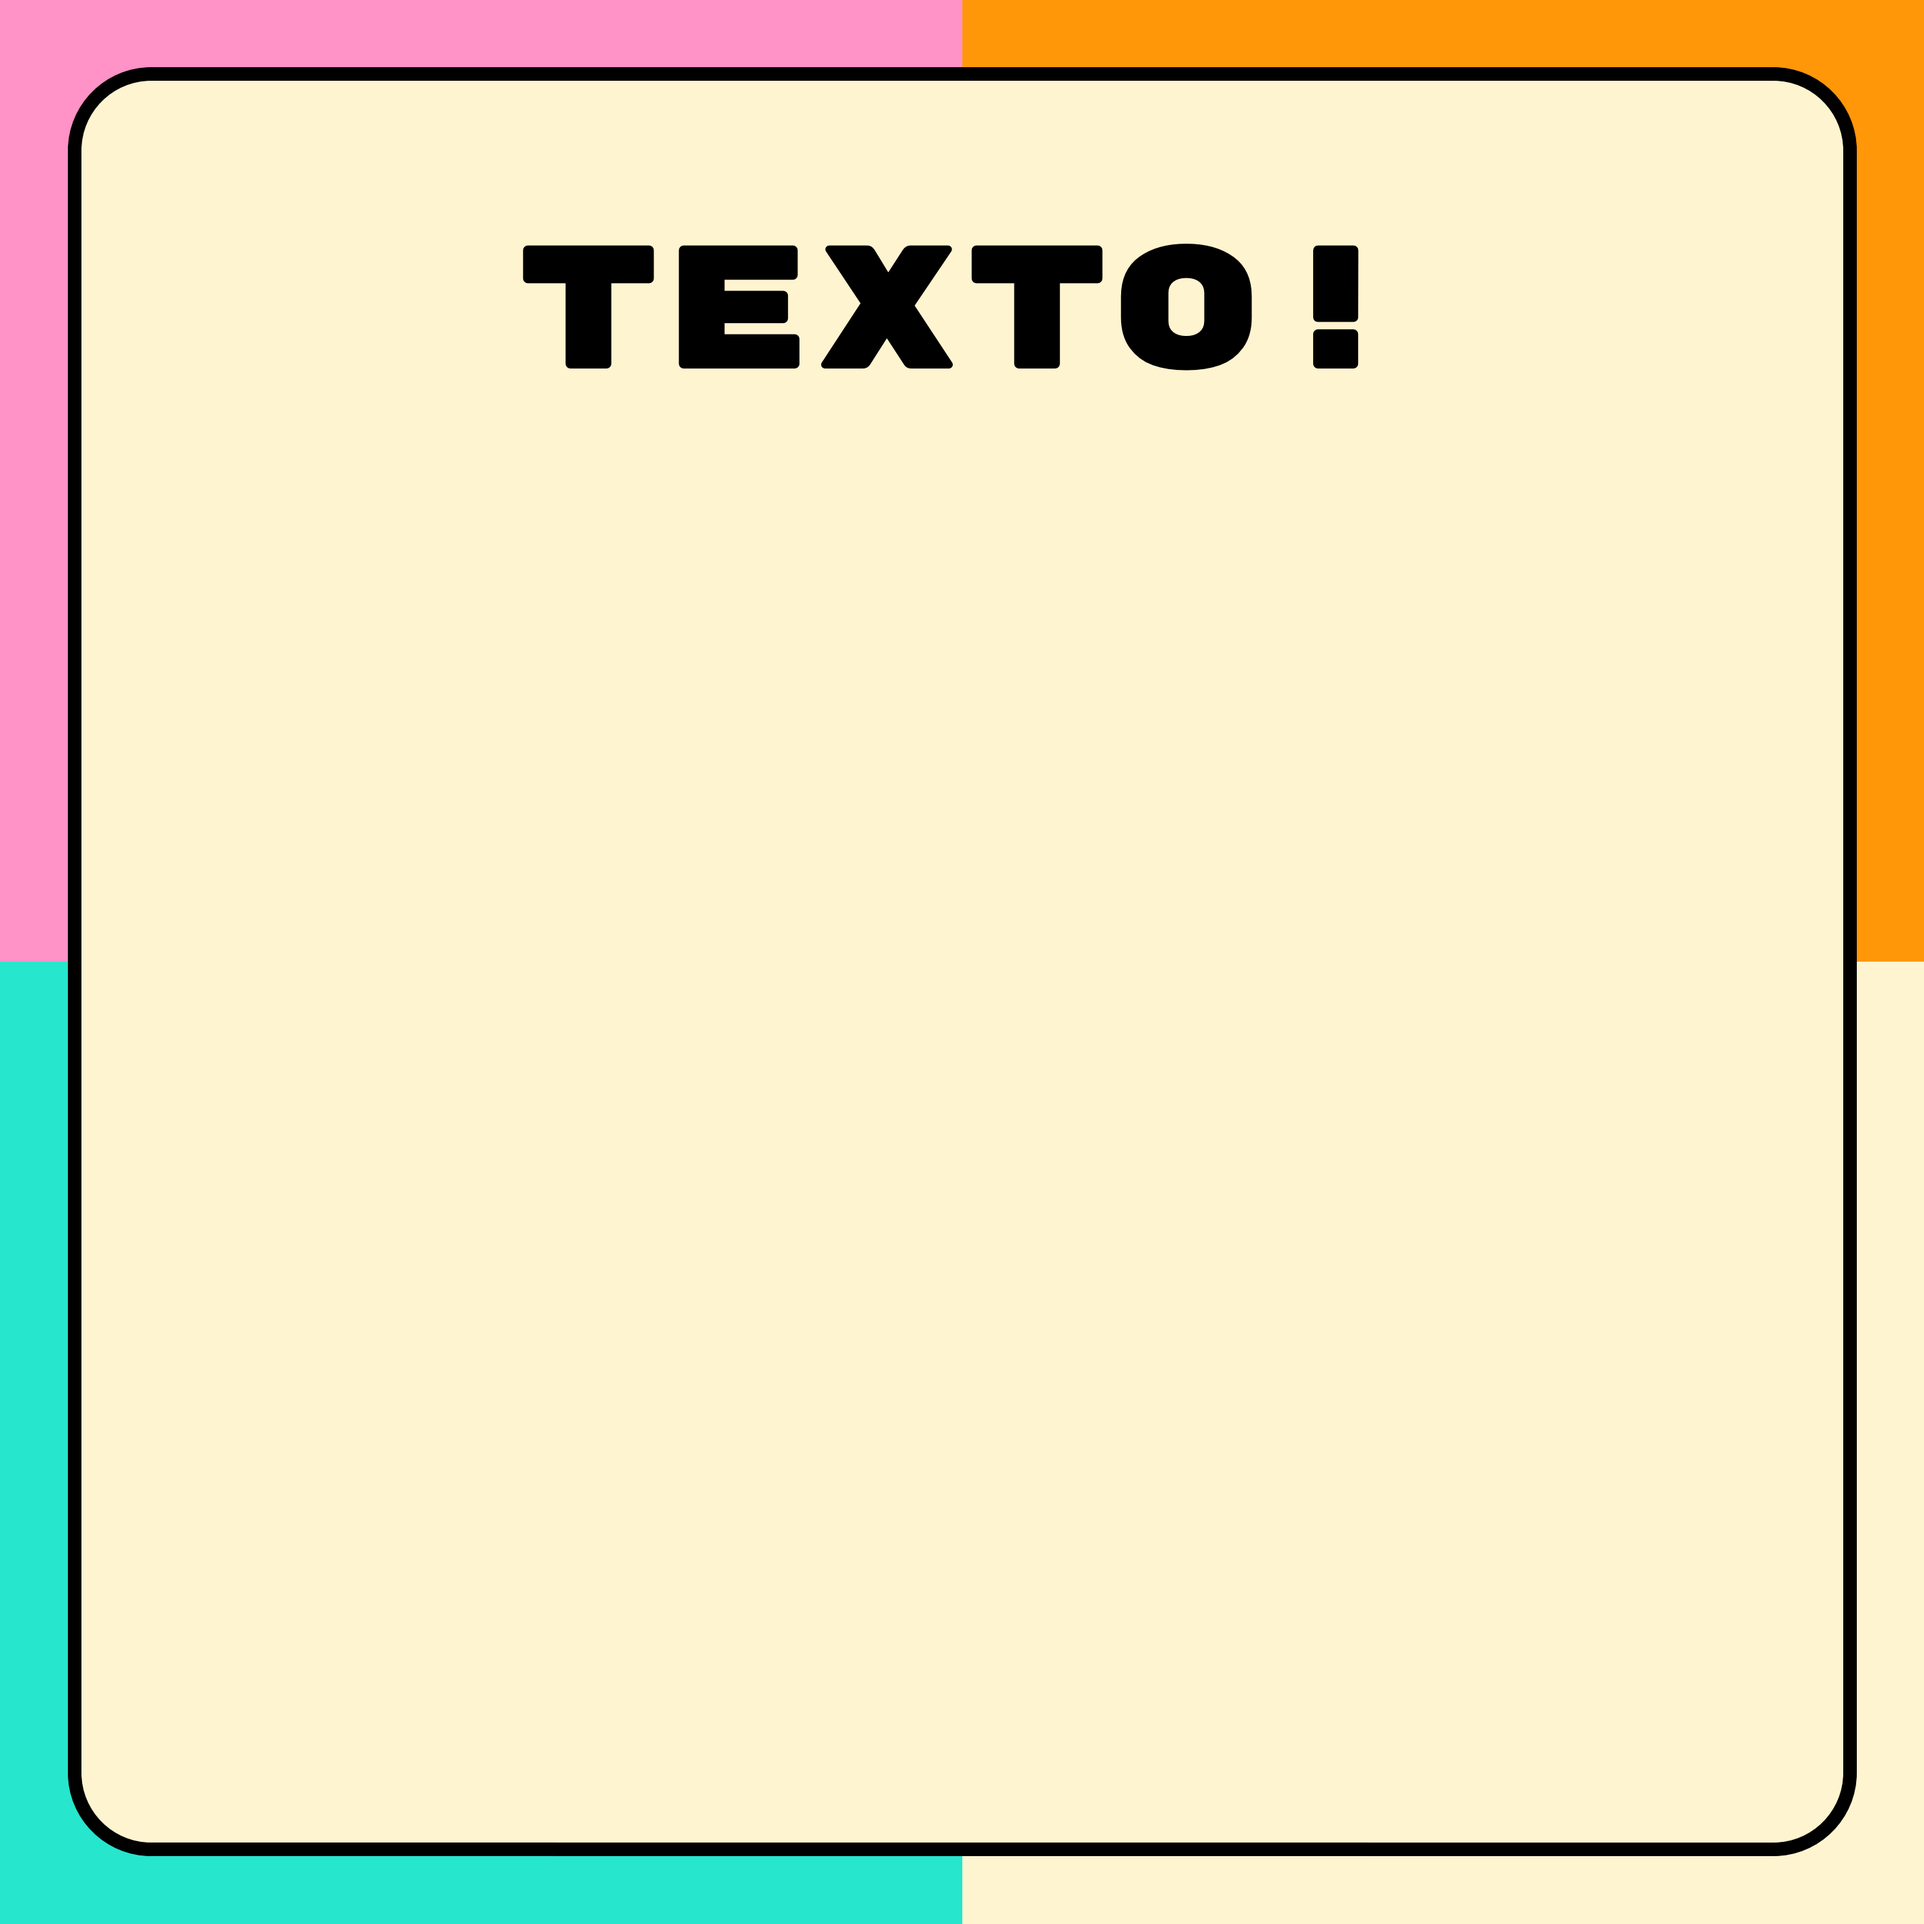
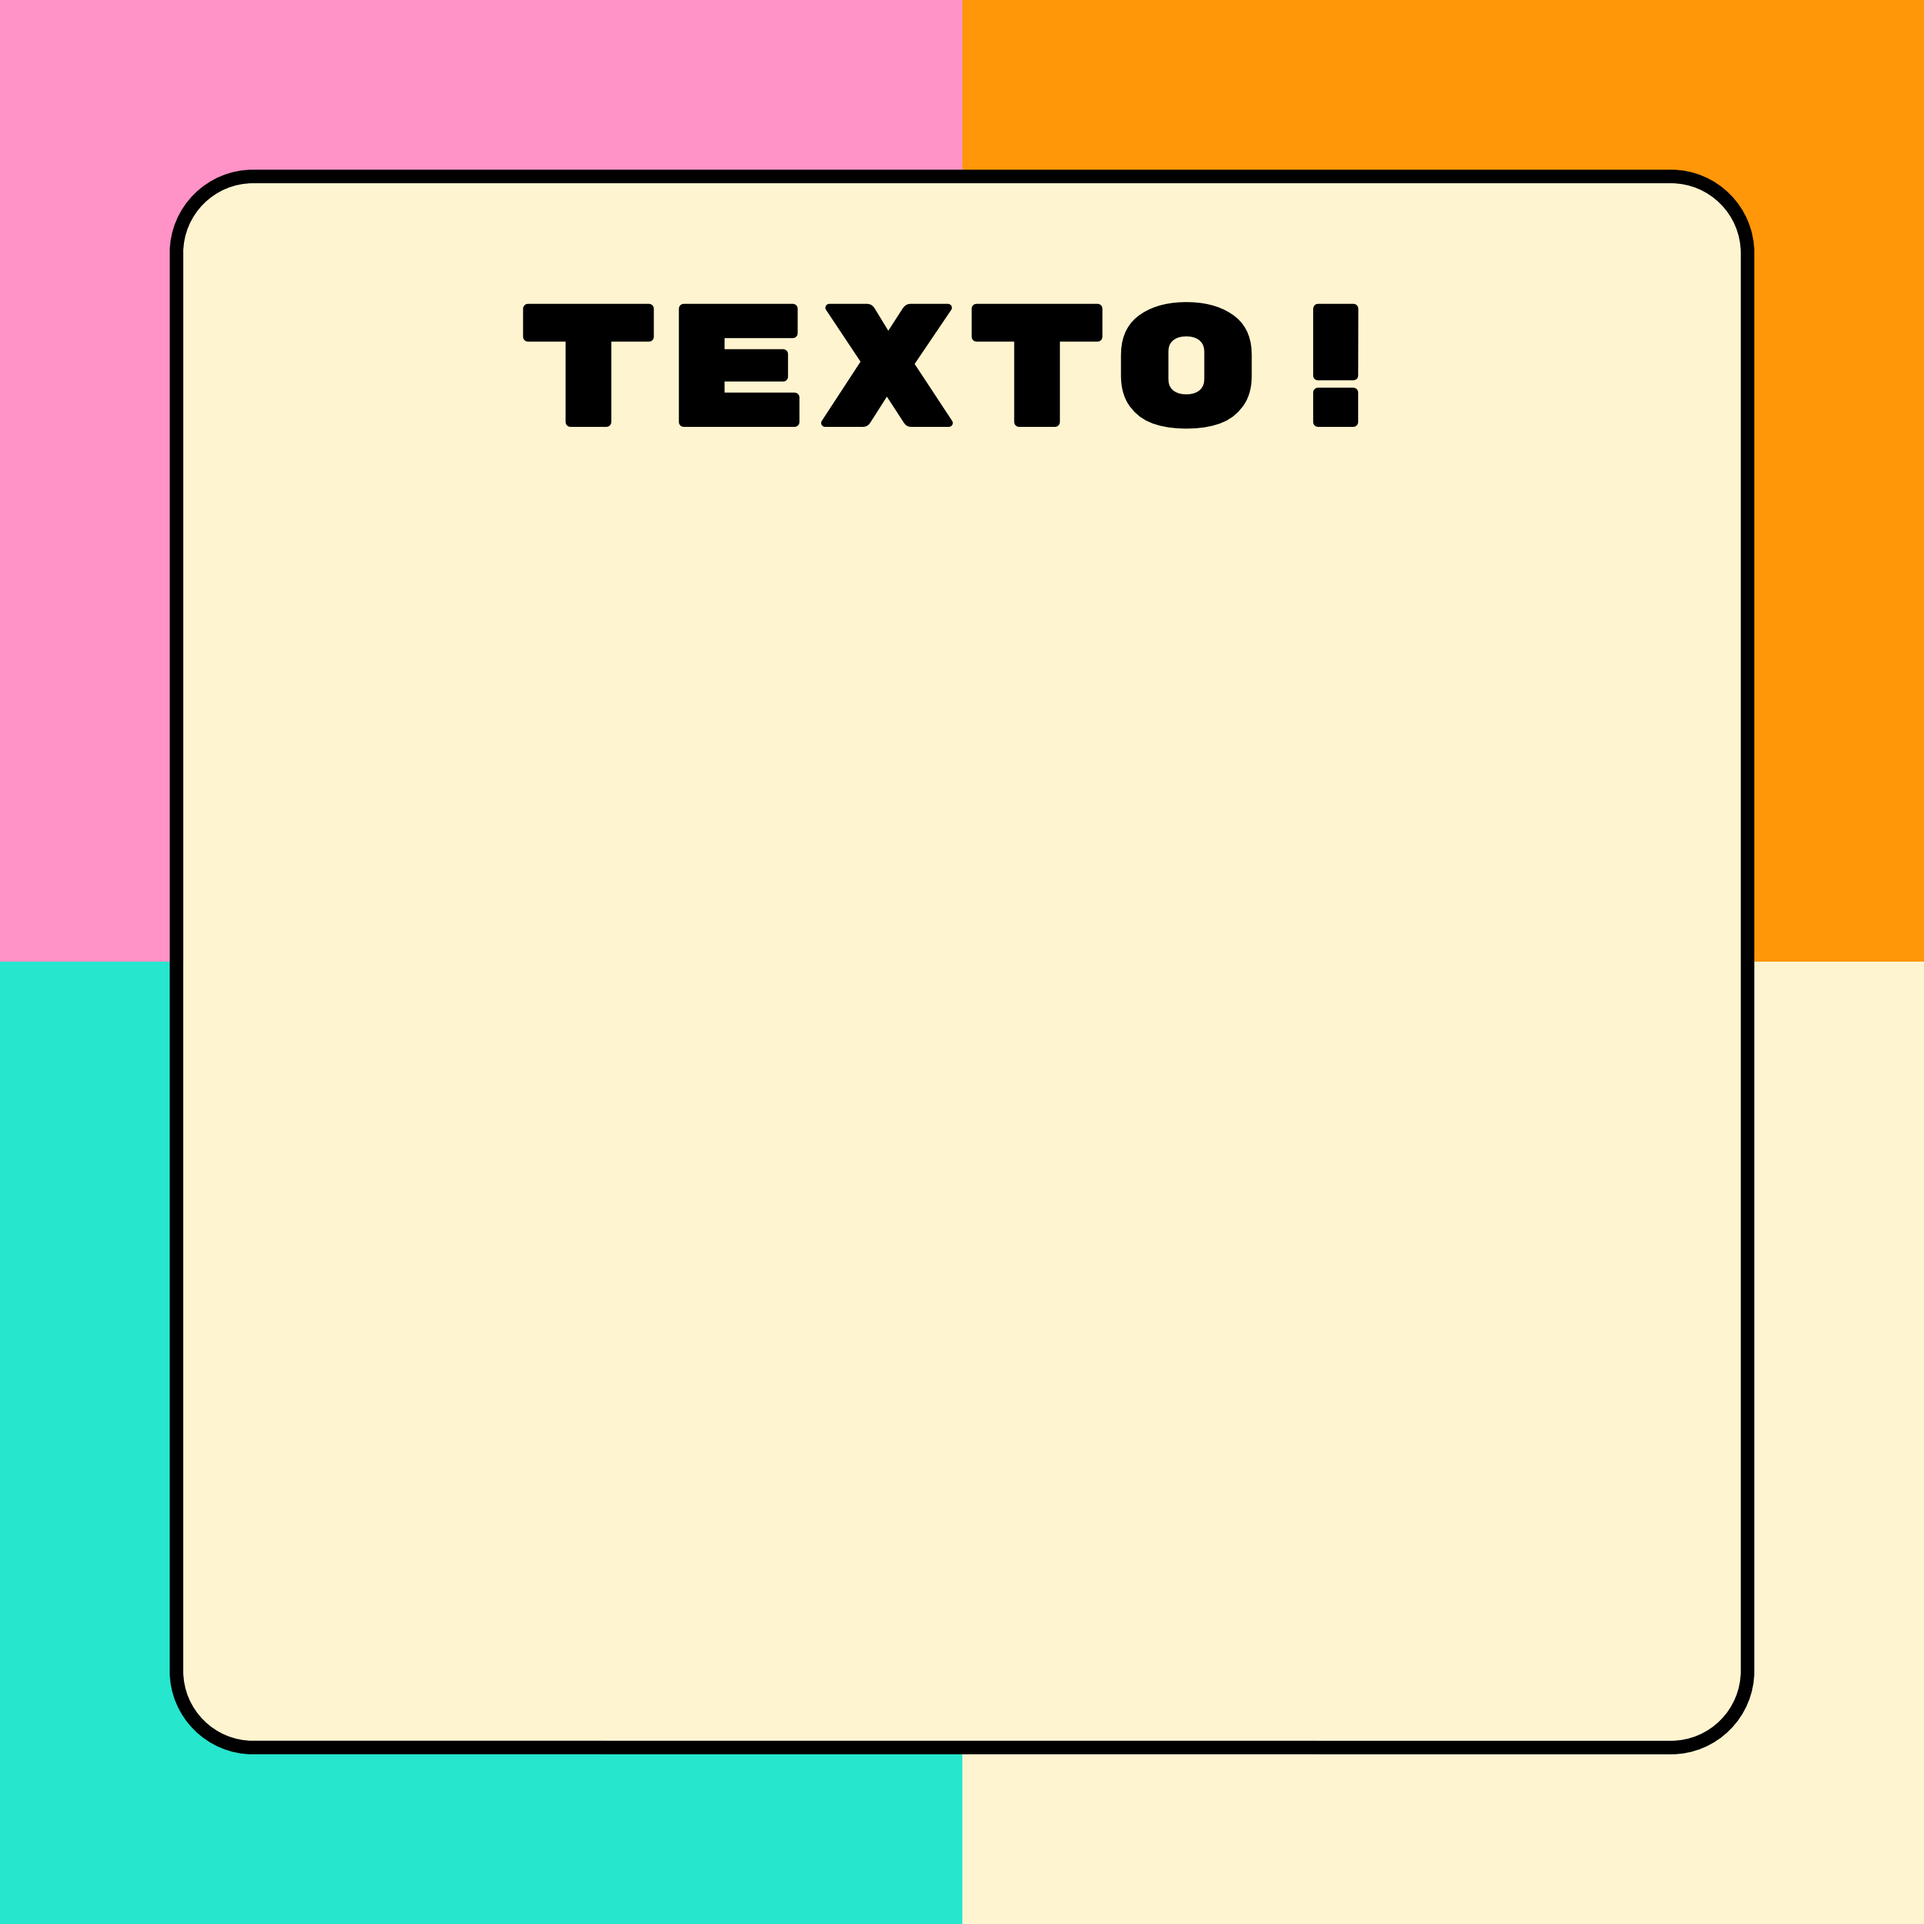
Fixed webkit bug where subject and letter were not positioned correctly

Changed region(s): [[0.031, 0.031, 0.9623, 0.9623], [0.2483, 0.1242, 0.6519, 0.2483], [0.6829, 0.1242, 0.7139, 0.2483]]

diff --git a/styles.css b/styles.css
@@ -4,6 +4,7 @@ body {
   font-family: 'Noticia Text', serif;
   font-weight: bold;
   background: linear-gradient(90deg, rgba(135,203,38,1) 0%, rgba(13,104,180,1) 100%);
+  background-size: 100%;
   margin: 0;
   display: flex;
   align-items: center;
@@ -11,12 +12,13 @@ body {
   flex-direction: column;
   min-height: 100vh;
   overflow: hidden;
+  width: 100%;
 }
 
 .background {
   position: absolute;
-  width: 165%;
-  height: 165%;
+  width: 200%;
+  height: 200%;
   z-index: -1;
   transform: rotate(-30deg);
   background-image: url('TEXTO!.png');
@@ -25,8 +27,8 @@ body {
 }
 
 .card {
-  /* background-image: url('Card.png');
-  background-size: contain; */
+  background-image: url('Card.png');
+  background-size: cover; 
   display: flex;
   flex-direction: column;
   border-radius: 20px;
@@ -35,20 +37,24 @@ body {
   box-shadow: 0 5px 15px rgba(0, 0, 0, 0.1);
   text-align: center;
   width: 20em;
+  height: 20em;
   aspect-ratio: 1;
   align-items: center;
   justify-content: flex-start;
-  align-content: stretch;
+  align-content: center;
   overflow: hidden;
   position: relative;
+  margin: 3px;
 }
-
+/*
 .cardImg {
   width: 100%;
+  height: 100%;
   position: absolute;
   z-index: -1;
   left: 0;
-}
+  top: 0;
+} */
 
 h1 {
   font-size: 24px;
@@ -104,11 +110,11 @@ p#result {
 }
 
 #letter {
-  top: 35%;
   width: 10%;
+  top: 30%;
 }
 
 #subject {
-  top: 50%;
   width: 50%;
+  top: 50%;
 }

diff --git a/index.html b/index.html
@@ -8,14 +8,14 @@
 </head>
 <body>
   <div class="background"></div>
-    <div class="card">
-        <img src="Card.png" class="cardImg">
-        <p id="letter"> </p>
-        <p id="subject"> </p>
-        <!-- <input type="text" id="wordInput" placeholder="Enter a word...">
-        <button id="checkButton">Check</button> -->
-        <p id="result"></p>
-      </div>
+  <div class="card">
+      <!--img src="Card.png" class="cardImg"-->
+      <p id="letter"> </p>
+      <p id="subject"> </p>
+      <!-- <input type="text" id="wordInput" placeholder="Enter a word...">
+      <button id="checkButton">Check</button> -->
+      <p id="result"></p>
+    </div>
     <button id="restartButton">Nouvelle Carte</button>
   <script src="script.js"></script>
 </body>
